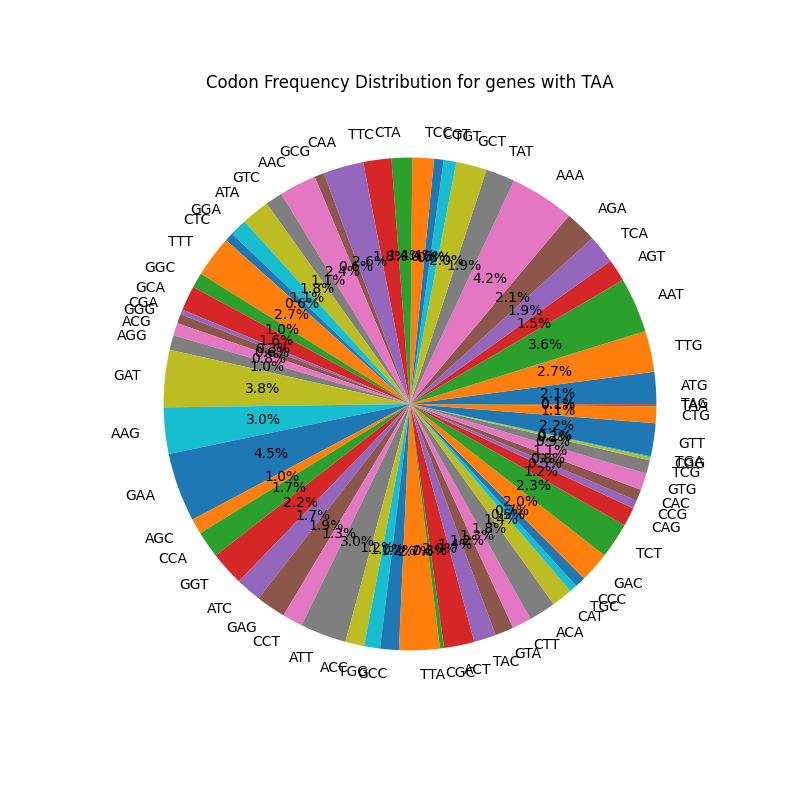
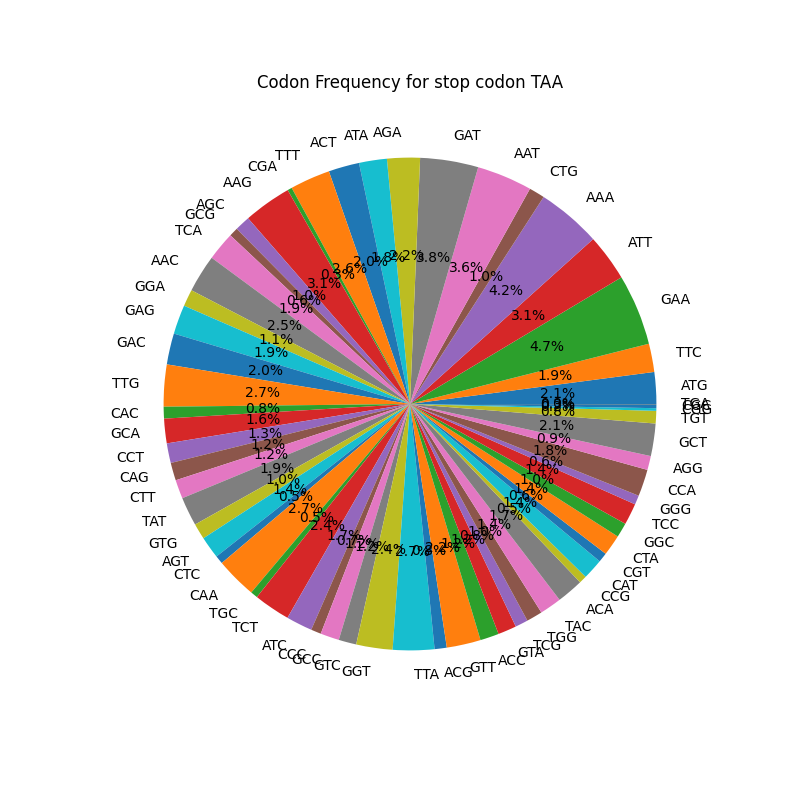
final check

diff --git a/Practical7/stop_codons.py b/Practical7/stop_codons.py
@@ -1,76 +1,76 @@
-import re
+#import re
 
-stop_codons = ["TAA", "TAG", "TGA"]
+#stop_codons = ["TAA", "TAG", "TGA"]
 
-with open("Saccharomyces_cerevisiae.R64-1-1.cdna.all.fa", "r") as f_in, open("stop_genes.fa", "w") as f_out:
-    current_header = ""
-    current_seq = ""
+#with open("Saccharomyces_cerevisiae.R64-1-1.cdna.all.fa", "r") as f_in, open("stop_genes.fa", "w") as f_out:
+#    current_header = ""
+#    current_seq = ""
+#
+#    # output pattern
+#    def write_fasta(header, seq, file_handle):
+#        file_handle.write(f"{header}\n")
+#        
+#        for i in range(0, len(seq), 60):
+#            file_handle.write(f"{seq[i:i+60]}\n")
 
-    # output pattern
-    def write_fasta(header, seq, file_handle):
-        file_handle.write(f"{header}\n")
-        
-        for i in range(0, len(seq), 60):
-            file_handle.write(f"{seq[i:i+60]}\n")
+#    for line in f_in:
+#        line = line.strip()
+#
+#        if line.startswith(">"):
+#            # new header,new sequence, but before that we need to check the previous one
+#            if current_header:
+#                seq_combined = current_seq.replace("\n", "")
+#
+#                # find stop codons after the first ATG
+#                found_stops = []
 
-    for line in f_in:
-        line = line.strip()
+#                # 1. find the index of the first ATG (start codon)
+#                start_idx = seq_combined.find("ATG")
 
-        if line.startswith(">"):
-            # new header,new sequence, but before that we need to check the previous one
-            if current_header:
-                seq_combined = current_seq.replace("\n", "")
-
-                # find stop codons after the first ATG
-                found_stops = []
-
-                # 1. find the index of the first ATG (start codon)
-                start_idx = seq_combined.find("ATG")
-
-                if start_idx != -1:
-                    # 2. scan through the sequence in steps of 3 (codon by codon) starting from the first ATG
-                    for i in range(start_idx + 3, len(seq_combined), 3):
-                        codon = seq_combined[i:i+3]
-                        if codon in stop_codons:
-                            if codon not in found_stops:
-                                found_stops.append(codon)
+#                if start_idx != -1:
+#                    # 2. scan through the sequence in steps of 3 (codon by codon) starting from the first ATG
+#                    for i in range(start_idx + 3, len(seq_combined), 3):
+#                        codon = seq_combined[i:i+3]
+#                        if codon in stop_codons:
+#                            if codon not in found_stops:
+#                                found_stops.append(codon)
 
                 # 3. write to output if any stop codons found
-                if found_stops:
+#                if found_stops:
                     # the pattern of the new header 
                     # sort out Gene ID ( >YBR024W_mRNA... -> YBR024W_mRNA)
                     # the first word without ">" is usually the gene ID
-                    gene_id = current_header.split()[0].replace(">", "")
+#                    gene_id = current_header.split()[0].replace(">", "")
 
                     # piece together the new header with found stop codons
                     # if there are multiple stop codons, join them with underscores
-                    new_header = f">{gene_id};{'_'.join(found_stops)}"
+#                    new_header = f">{gene_id};{'_'.join(found_stops)}"
 
-                    write_fasta(new_header, seq_combined, f_out)
+#                    write_fasta(new_header, seq_combined, f_out)
 
             # reset for the new sequence
-            current_header = line
-            current_seq = ""
-        else:
-            current_seq += line + "\n"
+#            current_header = line
+#            current_seq = ""
+#        else:
+#            current_seq += line + "\n"
 
     #the last sequence might not be followed by a new header, so we need to check it after the loop
-    if current_header:
-        seq_combined = current_seq.replace("\n", "")
-        found_stops = []
-        start_idx = seq_combined.find("ATG")
+#    if current_header:
+#        seq_combined = current_seq.replace("\n", "")
+#        found_stops = []
+#        start_idx = seq_combined.find("ATG")
 
-        if start_idx != -1:
-            for i in range(start_idx + 3, len(seq_combined), 3):
-                codon = seq_combined[i:i+3]
-                if codon in stop_codons:
-                    if codon not in found_stops:
-                        found_stops.append(codon)
+#        if start_idx != -1:
+#            for i in range(start_idx + 3, len(seq_combined), 3):
+#                codon = seq_combined[i:i+3]
+#                if codon in stop_codons:
+#                    if codon not in found_stops:
+#                        found_stops.append(codon)
 
-        if found_stops:
-            gene_id = current_header.split()[0].replace(">", "")
-            new_header = f">{gene_id};{'_'.join(found_stops)}"
-            write_fasta(new_header, seq_combined, f_out)
+#        if found_stops:
+#            gene_id = current_header.split()[0].replace(">", "")
+#            new_header = f">{gene_id};{'_'.join(found_stops)}"
+#            write_fasta(new_header, seq_combined, f_out)
 
         #if found_stops:
         #    gene_id = current_header.split()[0].replace(">", "")
@@ -79,4 +79,51 @@ with open("Saccharomyces_cerevisiae.R64-1-1.cdna.all.fa", "r") as f_in, open("st
         #    write_fasta(new_header, seq_combined, f_out)
 
 
+stop_codons = ["TAA", "TAG", "TGA"]
 
+def write_fasta(header, seq, fh):
+    fh.write(header + "\n")
+    for i in range(0, len(seq), 60):
+        fh.write(seq[i:i+60] + "\n")
+
+with open("Saccharomyces_cerevisiae.R64-1-1.cdna.all.fa") as f_in, \
+     open("stop_genes.fa", "w") as f_out:
+
+    current_header = ""
+    current_seq = ""
+
+    for line in f_in:
+        line = line.strip()
+        if line.startswith(">"):
+            if current_header:
+                s = current_seq.replace("\n", "")
+                start = s.find("ATG")
+                found = []
+                if start != -1:
+                    for i in range(start + 3, len(s), 3):
+                        c = s[i:i+3]
+                        if c in stop_codons and c not in found:
+                            found.append(c)
+                if found:
+                    gene_id = current_header.split()[0].replace(">", "")
+                    new_header = f">{gene_id};{'_'.join(found)}"
+                    write_fasta(new_header, s, f_out)
+
+            current_header = line
+            current_seq = ""
+        else:
+            current_seq += line
+
+    if current_header:
+        s = current_seq.replace("\n", "")
+        start = s.find("ATG")
+        found = []
+        if start != -1:
+            for i in range(start + 3, len(s), 3):
+                c = s[i:i+3]
+                if c in stop_codons and c not in found:
+                    found.append(c)
+        if found:
+            gene_id = current_header.split()[0].replace(">", "")
+            new_header = f">{gene_id};{'_'.join(found)}"
+            write_fasta(new_header, s, f_out)

diff --git a/Practical7/count_codons.py b/Practical7/count_codons.py
@@ -1,50 +1,52 @@
-# Practical 7: Task 3 - Codon Frequency
-# IBI1, 2025/26
+
+
+
 
 import matplotlib.pyplot as plt
 
-user_stop = input(" please enter a stop codon (TAA, TAG, TGA): ").strip()
-
+user_stop = input("Enter a stop codon (TAA, TAG, TGA): ").strip().upper()
 codon_count = {}
 
 try:
-    # 3. read stop_genes.fa and count codons in the sequences
-    with open("stop_genes.fa", 'r') as f:
+    with open("stop_genes.fa") as f:
+        current_seq = ""
         for line in f:
             line = line.strip()
-            # skip Header line
-            if line.startswith('>'):
-                continue
-            
-            # sequence 
-            sequence = line
-            # step=3
-            for i in range(0, len(sequence) - (len(sequence) % 3), 3):
-                codon = sequence[i:i+3]
-                
-                if codon not in codon_count:
-                    codon_count[codon] = 0
-                codon_count[codon] += 1
+            if line.startswith(">"):
+                if user_stop not in line:
+                    current_seq = ""
+                    continue
+                if current_seq:
+                    start = current_seq.find("ATG")
+                    if start != -1:
+                        longest_orf = ""
+                        for i in range(start, len(current_seq), 3):
+                            if current_seq[i:i+3] == "ATG":
+                                for j in range(i, len(current_seq), 3):
+                                    c = current_seq[j:j+3]
+                                    if c == user_stop:
+                                        orf = current_seq[i:j]
+                                        if len(orf) > len(longest_orf):
+                                            longest_orf = orf
+                                        break
+                        for k in range(0, len(longest_orf) - len(longest_orf)%3, 3):
+                            codon = longest_orf[k:k+3]
+                            codon_count[codon] = codon_count.get(codon, 0) + 1
+                current_seq = ""
+            else:
+                current_seq += line
 
-    # 4. draw the pie chart using matplotlib
-    # check if codon_count is not empty to avoid plotting an empty chart
     if codon_count:
-        labels = codon_count.keys()
-        sizes = codon_count.values()
-
-        plt.figure(figsize=(8, 8))
-        plt.pie(sizes, labels=labels, autopct='%1.1f%%')
-        plt.title(f'Codon Frequency Distribution for genes with {user_stop}')
-        
-        # 5. save the figure
-        filename = f'{user_stop}_codon_frequency.png'
-        plt.savefig(filename)
+        plt.figure(figsize=(8,8))
+        plt.pie(codon_count.values(), labels=codon_count.keys(), autopct='%1.1f%%')
+        plt.title(f'Codon Frequency for stop codon {user_stop}')
+        plt.savefig(f'{user_stop}_codon_frequency.png')
         plt.close()
-        print(f"任务3完成：已生成 {filename}")
+        print(f"File saved: {user_stop}_codon_frequency.png")
     else:
-        print("error: can't find any codons to plot. Please check if stop_genes.fa is generated correctly and contains sequences.")
+        print("No codons counted.")
 
 except FileNotFoundError:
-    print("error: can't find stop_genes.fa . Please run stop_codons.py first.")
+    print("Error: Please run stop_codons.py first.")
 except Exception as e:
-    print(f"error: {e}")
+    print(f"Error: {e}")

diff --git a/Practical10/delys.py b/Practical10/delys.py
@@ -9,10 +9,12 @@ import matplotlib.pyplot as plt
 
 df = pd.read_csv("D:\糖糖\大学\IBI\IBI1_2025-26\IBI1_2025-26\Practical10\dalys-rate-from-all-causes.csv")
 
+afghanistan_data = df[df['Entity'] == 'Afghanistan']
+print(afghanistan_data[['Year', 'DALYs']].head(10))
 
-first_10_rows = df.iloc[:10, [2, 3]]
-print("--- First 10 rows (Year and DALYs) ---")
-print(first_10_rows)
+#first_10_rows = df.iloc[:10, [2, 3]]
+#print("--- First 10 rows (Year and DALYs) ---")
+#print(first_10_rows)
 
 # [Required Comment]: What year reported the maximum DALYs across the first 10 years for Afghanistan?
 # Based on the printed data for the first 10 years (1990-1999), 
